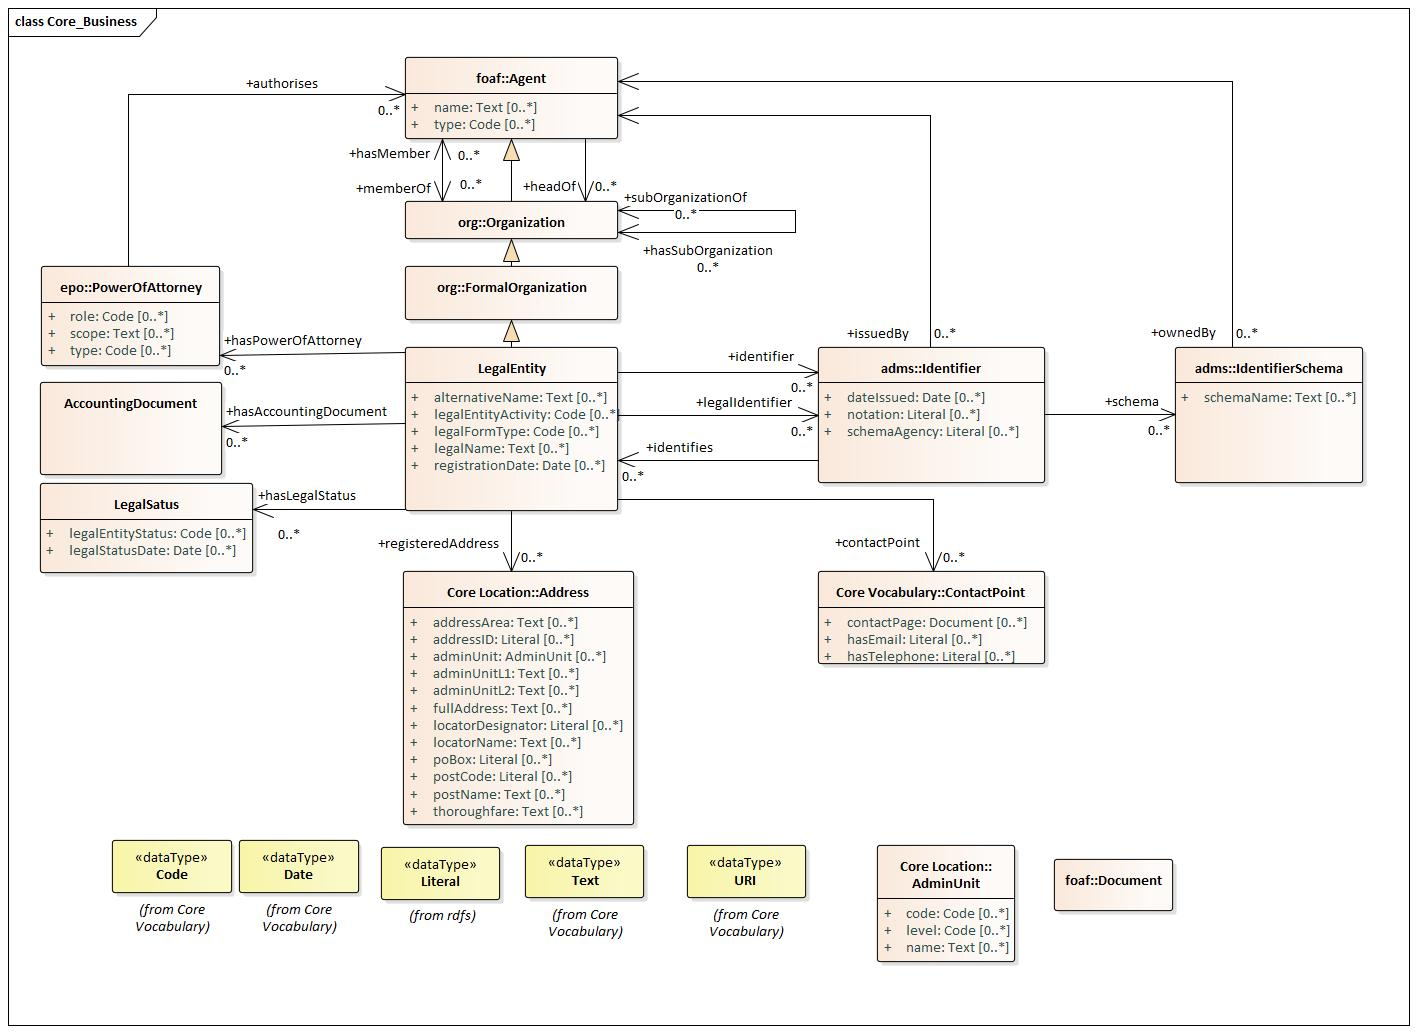
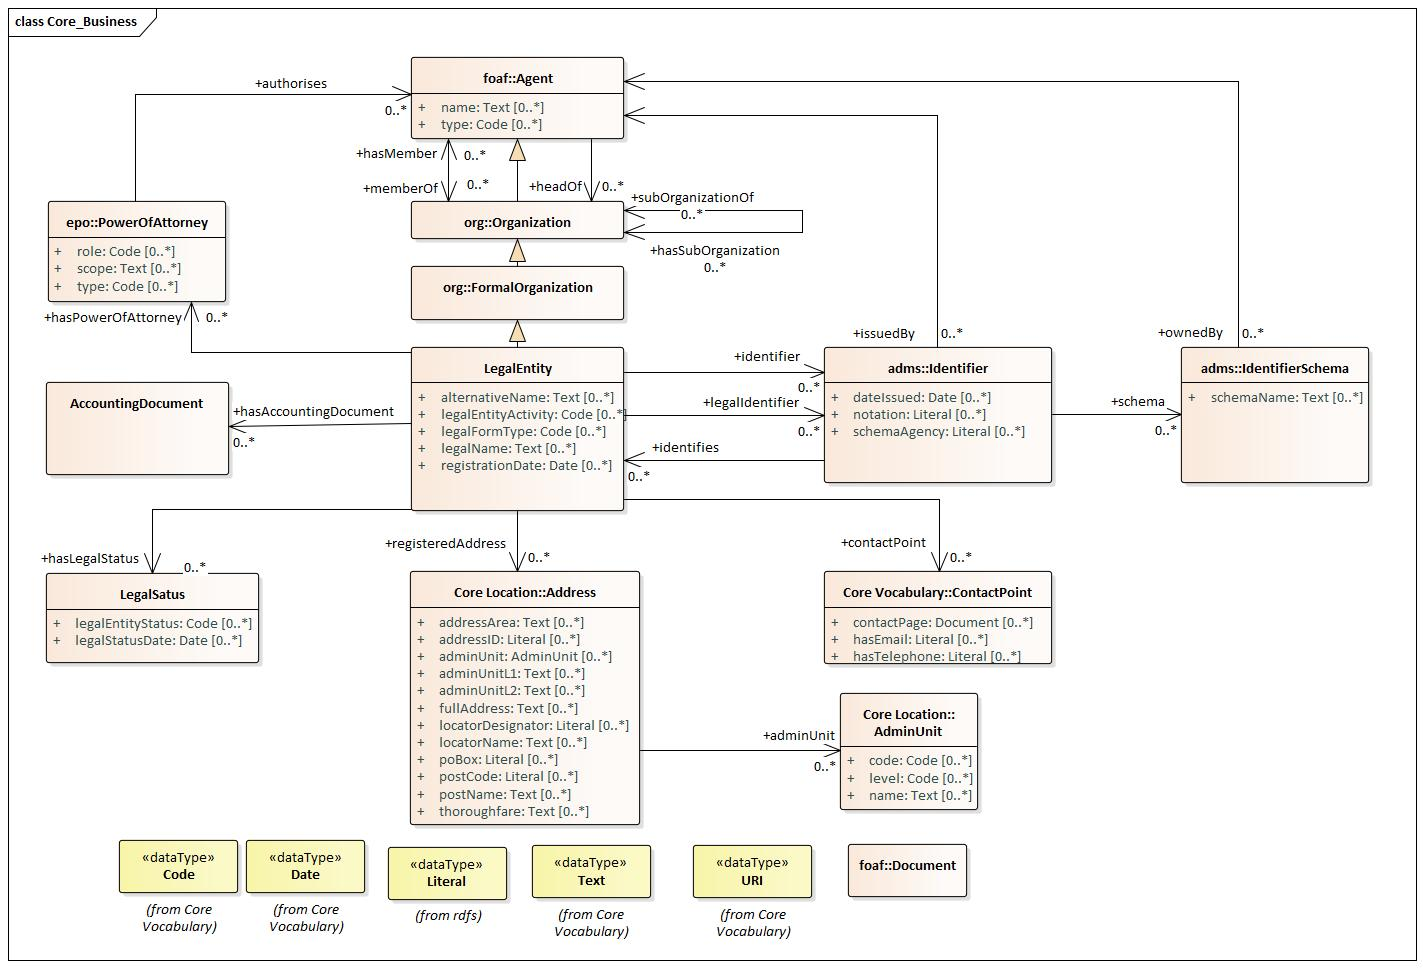
Label fix

diff --git a/releases/2.3.0/index.html b/releases/2.3.0/index.html
@@ -526,10 +526,10 @@ This class belongs to <a href="https://semiceu.github.io/Core-Location-Vocabular
                             For this entity the following properties are defined: <a href="#Address.addressarea">address area</a>
                             , <a href="#Address.addressID">address ID</a>
                             , <a href="#Address.administrativeunit">administrative unit</a>
+                            , <a href="#Address.administrativeunit">administrative unit</a>
                             , <a href="#Address.administrativeunitlevel1">administrative unit level 1</a>
                             , <a href="#Address.administrativeunitlevel2">administrative unit level 2</a>
                             , <a href="#Address.fulladdress">full address</a>
-                            , <a href="#Address.http%3A%2F%2Fdata.europa.eu%2Fm8g%2FadminUnit">http://data.europa.eu/m8g/adminUnit</a>
                             , <a href="#Address.locatordesignator">locator designator</a>
                             , <a href="#Address.locatorname">locator name</a>
                             , <a href="#Address.postcode">post code</a>
@@ -712,6 +712,49 @@ To provide maximum flexibility in the Core Vocabulary, whilst remaining interope
                                 </td>
                             </tr>
                         
+                            <tr id="Address.administrativeunit"
+                                typeof="rdf:Property"
+                                resource="http://data.europa.eu/m8g/adminUnit"
+                                class="class mandatory">
+                                <td>
+				    <a href="https://github.com/SEMICeu/Core-Business-Vocabulary/issues/new?title=Issue%20for%20administrative unit%20in%20Address&body=Explain%20your%20issue%20for%20https://semiceu.github.io/Core-Business-Vocabulary/releases/2.3.0%23Address.administrativeunit" target="_blank" rel="noopener noreferrer" >
+					    <!--                                        <i class="icon">[o]</i> -->
+                                        <img src="html/callout.png" loading="lazy" alt="[o]" width="100" height="100"/>
+                                    </a>
+                                </td>
+                                <td>
+                                        <a href="http://data.europa.eu/m8g/adminUnit"
+                                           data-toggle="tooltip"
+                                           data-content="http://data.europa.eu/m8g/adminUnit"
+                                           data-placement="right">
+                                        administrative unit</a>
+                                </td>
+                                <td>
+                                    
+                                        
+                                            <a href="#AdministrativeUnit" data-placement="right">Administrative Unit</a>
+                                        
+                                    
+                                </td>
+                                <td>
+                                    0..*
+                                </td>
+                                <td property="rdfs:comment">
+                                    The adminUnit relationship links an Address with the Administrative Unit class.The adminUnit relationship links an Address with the Administrative Unit class.
+                                </td>
+                                <td property="skos:scopeNote">
+                                    
+                                </td>
+				<!--
+                                <td>
+                                    
+                                </td>
+				-->
+                                <td>
+                                    
+                                </td>
+                            </tr>
+                        
                             <tr id="Address.administrativeunitlevel1"
                                 typeof="rdf:Property"
                                 resource="http://www.w3.org/ns/locn#adminUnitL1"
@@ -830,49 +873,6 @@ To provide maximum flexibility in the Core Vocabulary, whilst remaining interope
                                 </td>
                                 <td property="skos:scopeNote">
                                     Use of this property is recommended as it will not suffer any misunderstandings that might arise through the breaking up of an address into its component parts. This property is analogous to vCard's label property but with two important differences: (1) formatting is not assumed so that, unlike vCard label, it may not be suitable to print this on an address label, (2) vCard's label property has a domain of vCard Address; the fullAddress property has no such restriction. An example of a full address is "Champ de Mars, 5 Avenue Anatole France, 75007 Paris, France".
-                                </td>
-				<!--
-                                <td>
-                                    
-                                </td>
-				-->
-                                <td>
-                                    
-                                </td>
-                            </tr>
-                        
-                            <tr id="Address.http%3A%2F%2Fdata.europa.eu%2Fm8g%2FadminUnit"
-                                typeof="rdf:Property"
-                                resource="http://data.europa.eu/m8g/adminUnit"
-                                class="class mandatory">
-                                <td>
-				    <a href="https://github.com/SEMICeu/Core-Business-Vocabulary/issues/new?title=Issue%20for%20http://data.europa.eu/m8g/adminUnit%20in%20Address&body=Explain%20your%20issue%20for%20https://semiceu.github.io/Core-Business-Vocabulary/releases/2.3.0%23Address.http%3A%2F%2Fdata.europa.eu%2Fm8g%2FadminUnit" target="_blank" rel="noopener noreferrer" >
-					    <!--                                        <i class="icon">[o]</i> -->
-                                        <img src="html/callout.png" loading="lazy" alt="[o]" width="100" height="100"/>
-                                    </a>
-                                </td>
-                                <td>
-                                        <a href="http://data.europa.eu/m8g/adminUnit"
-                                           data-toggle="tooltip"
-                                           data-content="http://data.europa.eu/m8g/adminUnit"
-                                           data-placement="right">
-                                        http://data.europa.eu/m8g/adminUnit</a>
-                                </td>
-                                <td>
-                                    
-                                        
-                                            <a href="#AdministrativeUnit" data-placement="right">Administrative Unit</a>
-                                        
-                                    
-                                </td>
-                                <td>
-                                    0..*
-                                </td>
-                                <td property="rdfs:comment">
-                                    The adminUnit relationship links an Address with the Administrative Unit class.The adminUnit relationship links an Address with the Administrative Unit class.
-                                </td>
-                                <td property="skos:scopeNote">
-                                    
                                 </td>
 				<!--
                                 <td>
@@ -3518,7 +3518,7 @@ They are included in the Core Vocabulary because they form the range of properti
                     
                         <dd>
                             For this entity the following properties are defined: <a href="#PowerofAttorney.authorises">authorises</a>
-                            , <a href="#PowerofAttorney.Role">Role</a>
+                            , <a href="#PowerofAttorney.role">role</a>
                             , <a href="#PowerofAttorney.scopeofattorney">scope of attorney</a>
                             , <a href="#PowerofAttorney.type">type</a>
                             .
@@ -3603,12 +3603,12 @@ They are included in the Core Vocabulary because they form the range of properti
                                 </td>
                             </tr>
                         
-                            <tr id="PowerofAttorney.Role"
+                            <tr id="PowerofAttorney.role"
                                 typeof="rdf:Property"
                                 resource="http://data.europa.eu/m8g/role"
                                 class="class mandatory">
                                 <td>
-				    <a href="https://github.com/SEMICeu/Core-Business-Vocabulary/issues/new?title=Issue%20for%20Role%20in%20Power of Attorney&body=Explain%20your%20issue%20for%20https://semiceu.github.io/Core-Business-Vocabulary/releases/2.3.0%23PowerofAttorney.Role" target="_blank" rel="noopener noreferrer" >
+				    <a href="https://github.com/SEMICeu/Core-Business-Vocabulary/issues/new?title=Issue%20for%20role%20in%20Power of Attorney&body=Explain%20your%20issue%20for%20https://semiceu.github.io/Core-Business-Vocabulary/releases/2.3.0%23PowerofAttorney.role" target="_blank" rel="noopener noreferrer" >
 					    <!--                                        <i class="icon">[o]</i> -->
                                         <img src="html/callout.png" loading="lazy" alt="[o]" width="100" height="100"/>
                                     </a>
@@ -3618,7 +3618,7 @@ They are included in the Core Vocabulary because they form the range of properti
                                            data-toggle="tooltip"
                                            data-content="http://data.europa.eu/m8g/role"
                                            data-placement="right">
-                                        Role</a>
+                                        role</a>
                                 </td>
                                 <td>
                                     
@@ -4120,6 +4120,16 @@ The properties are indicated as <it>mandatory, recommended, optional</it> and <i
 								<td><a href="#Address">Address</a></td>
 								<td><div class="shorten">http://www.w3.org/ns/locn#Address</div></td>
 								<td></td>
+								<td><a href="#Address.administrativeunit">administrative unit </a></td>
+								<td><div class="shorten">http://data.europa.eu/m8g/adminUnit</div></td>
+							</tr>
+						
+					
+						
+							<tr>
+								<td><a href="#Address">Address</a></td>
+								<td><div class="shorten">http://www.w3.org/ns/locn#Address</div></td>
+								<td></td>
 								<td><a href="#Address.administrativeunitlevel1">administrative unit level 1 </a></td>
 								<td><div class="shorten">http://www.w3.org/ns/locn#adminUnitL1</div></td>
 							</tr>
@@ -4142,16 +4152,6 @@ The properties are indicated as <it>mandatory, recommended, optional</it> and <i
 								<td></td>
 								<td><a href="#Address.fulladdress">full address </a></td>
 								<td><div class="shorten">http://www.w3.org/ns/locn#fullAddress</div></td>
-							</tr>
-						
-					
-						
-							<tr>
-								<td><a href="#Address">Address</a></td>
-								<td><div class="shorten">http://www.w3.org/ns/locn#Address</div></td>
-								<td></td>
-								<td><a href="#Address.http%3A%2F%2Fdata.europa.eu%2Fm8g%2FadminUnit">http://data.europa.eu/m8g/adminUnit </a></td>
-								<td><div class="shorten">http://data.europa.eu/m8g/adminUnit</div></td>
 							</tr>
 						
 					
@@ -4807,7 +4807,7 @@ The properties are indicated as <it>mandatory, recommended, optional</it> and <i
 								<td><a href="#PowerofAttorney">Power of Attorney</a></td>
 								<td><div class="shorten">http://data.europa.eu/a4g/ontology#PowerOfAttorney</div></td>
 								<td></td>
-								<td><a href="#PowerofAttorney.Role">Role </a></td>
+								<td><a href="#PowerofAttorney.role">role </a></td>
 								<td><div class="shorten">http://data.europa.eu/m8g/role</div></td>
 							</tr>
 						